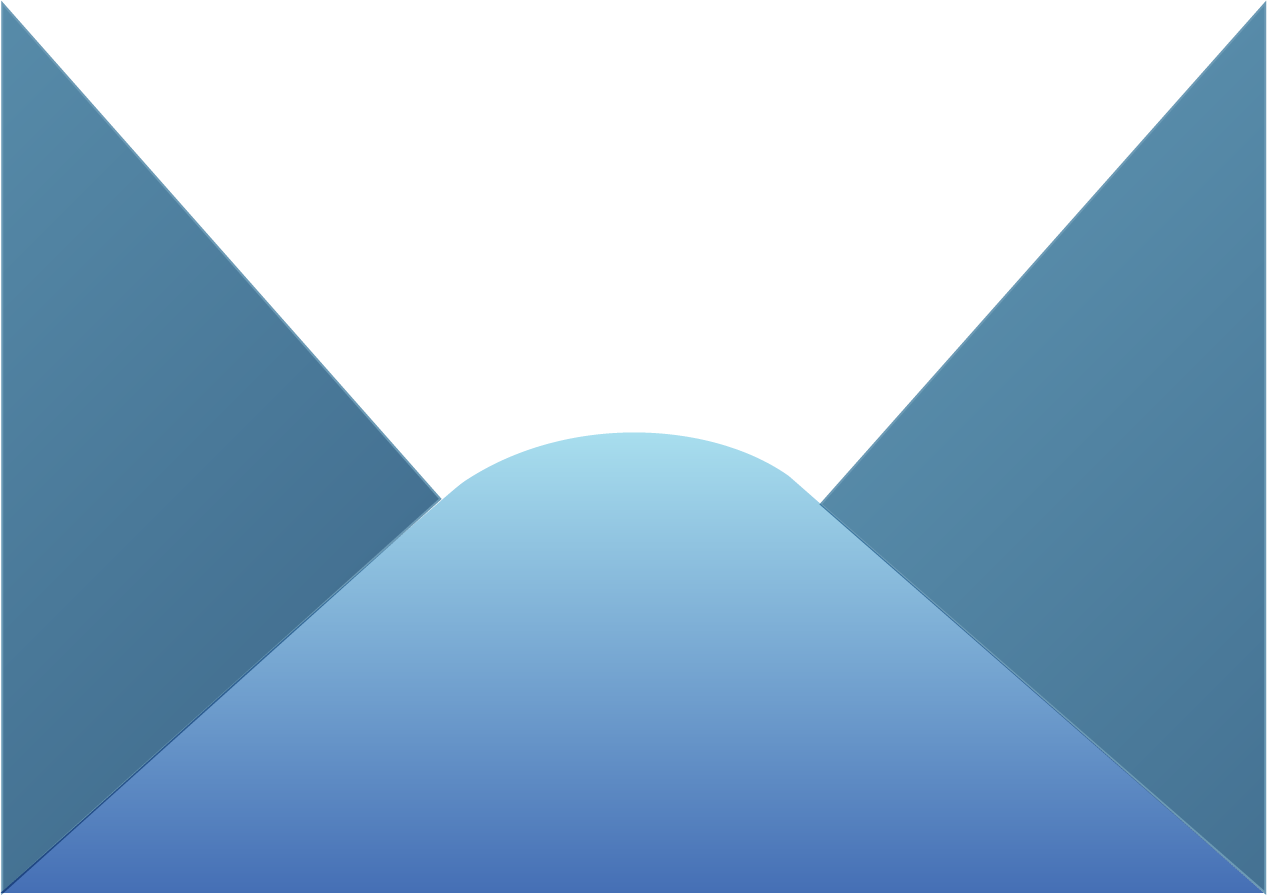
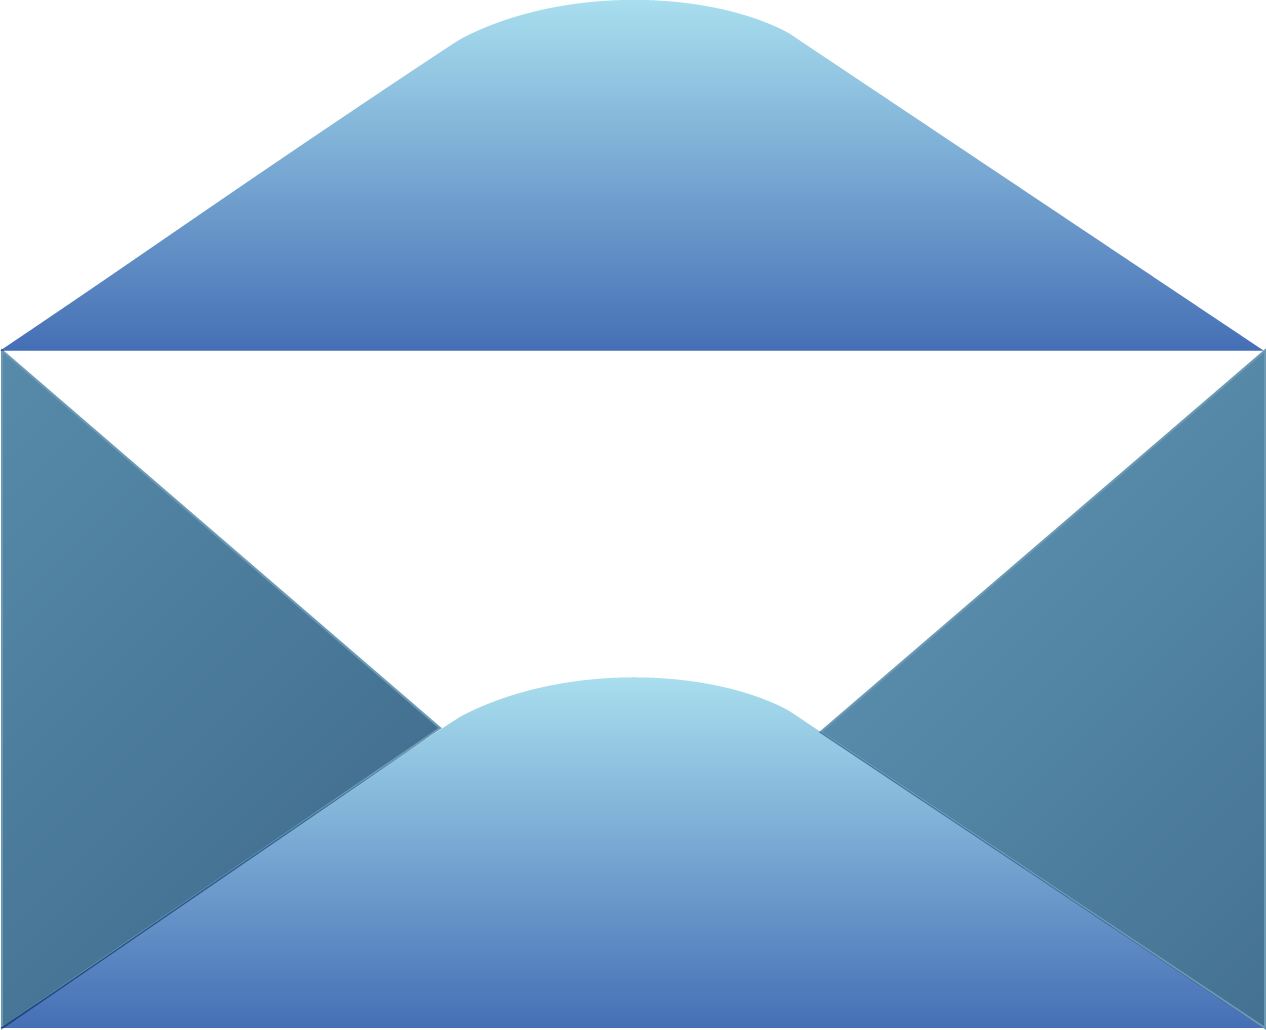
Basic version of thumbnailing done for now

diff --git a/js/create.js b/js/create.js
@@ -1383,9 +1383,13 @@ function save() {
 		window.top_template.thumbnailURL = canvasURL;
 		console.log(canvasURL);
 
-		// var half_envelope = document.createElement("img");
-		// half_envelope.src = "../images/halfenvelope.png";
-		// console.log(clearedCanvasURL);
+		var half_envelope = document.createElement("img");
+		half_envelope.src = "../images/halfenvelope.png";
+		ctx.drawImage(half_envelope, 10, 10);
+		ctx.font = "30px Arial";
+		ctx.strokeText("Hello World",10,50);
+		clearedCanvasURL = canvas.toDataURL();
+		console.log(clearedCanvasURL);
 
 		var placeHolder = document.createElement("img");
 		placeHolder.src = canvasURL;
@@ -2612,10 +2616,11 @@ function displayThumbnails() {
 	if (!thumbnailURL) {
 		openMessage("Thumbnails", "The Token must be saved before you can view thumbnails.");
 	} else {
-		$('#thumbnail-dialog-container').html('<img class="thumbnail-image" src="' + thumbnailURL + '" style="width: 45%;">'
-												+ '<img class="thumbnail-image" src="' + thumbnailURL + '" style="width: 45%;">'
-												+ '<img class="thumbnail-image" src="' + thumbnailURL + '" style="width: 45%;">'
-												+ '<img class="thumbnail-image" src="' + thumbnailURL + '" style="width: 45%;">');
+		$('#thumbnail-dialog-container').html('<img class="thumbnail-image" src="' + thumbnailURL + '">'
+												/* + '<img class="thumbnail-image" src="' + thumbnailURL + '">'
+												 * + '<img class="thumbnail-image" src="' + thumbnailURL + '">'
+												 * + '<img src="../images/halfenvelope.png" style="width: 41%; margin-left: -20em;">'
+												 * + '<img class="thumbnail-image" src="' + thumbnailURL + '">' */ );
 		$('#thumbnail-dialog').dialog('open');
 	}
 }

diff --git a/css/create.css b/css/create.css
@@ -1054,7 +1054,8 @@ fieldset {
 }
 
 .thumbnail-image {
-	margin-left: 22px;
-	margin-top: 29px;
+	margin-left: 26%;
+	margin-top: 1px;
 	margin-bottom: 6px;
+	width: 46%;
 }
